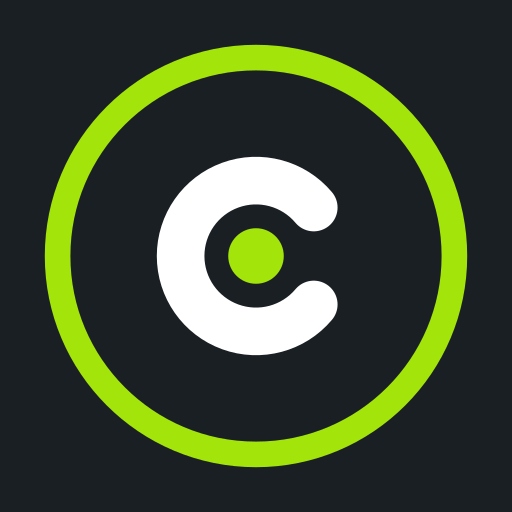
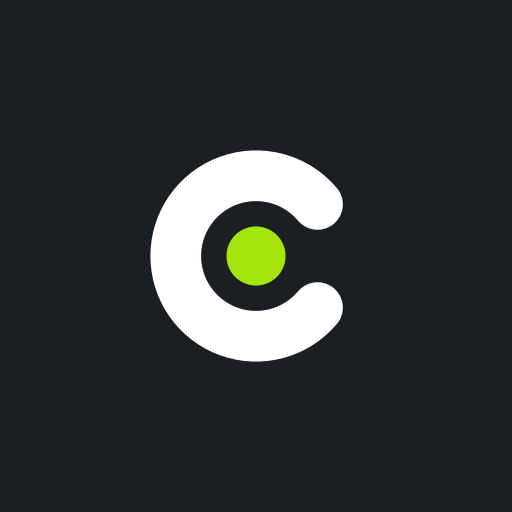
feat(marca): símbolo SWC sin fondo, solo la C con el punto
- Favicon SVG adaptable a tema claro/oscuro; ICO con la C en tinta.
- Íconos PWA/Apple conservan fondo sólido (las plataformas lo exigen).
- Componentes SwcSymbol y SwcWordmark con currentColor; el sidebar sigue el tema de la app.

diff --git a/src/components/brand/swc-logo.tsx b/src/components/brand/swc-logo.tsx
@@ -1,0 +1,43 @@
+import { useId, type SVGProps } from "react";
+
+// Geometry mirrors the brand kit generator (mark-only kit in mecate-co/branding/swc).
+// Letters use currentColor so they follow the app theme; the core dot stays lime.
+const STROKE = 24;
+const LIME = "#A3E40A";
+const C_PATH = "M79.11 25.57 A38 38 0 1 0 79.11 74.43";
+
+type Props = Omit<SVGProps<SVGSVGElement>, "viewBox" | "children"> & { title?: string };
+
+function labelProps(title: string | undefined) {
+  return title ? { role: "img", "aria-label": title } : { "aria-hidden": true };
+}
+
+/** The C with its core dot: favicon, sidebar and other square slots. */
+export function SwcSymbol({ title, ...props }: Props) {
+  return (
+    <svg viewBox="0 0 100 100" fill="none" {...labelProps(title)} {...props}>
+      <path d={C_PATH} stroke="currentColor" strokeWidth={STROKE} strokeLinecap="round" />
+      <circle cx="50" cy="50" r="14" fill={LIME} />
+    </svg>
+  );
+}
+
+/** The full SWC wordmark. */
+export function SwcWordmark({ title, ...props }: Props) {
+  const clip = useId();
+  return (
+    <svg viewBox="0 0 296 100" fill="none" {...labelProps(title)} {...props}>
+      <defs>
+        <clipPath id={clip}>
+          <rect x="-20" y="0" width="336" height="100" />
+        </clipPath>
+      </defs>
+      <g clipPath={`url(#${clip})`} stroke="currentColor" strokeWidth={STROKE} strokeLinejoin="round">
+        <path d="M76 12 H31 A19 19 0 0 0 31 50 H45 A19 19 0 0 1 45 88 H0" />
+        <path d="M97 -20 L111 88 L138 30 L165 88 L179 -20" />
+        <path d="M275.11 25.57 A38 38 0 1 0 275.11 74.43" strokeLinecap="round" />
+      </g>
+      <circle cx="246" cy="50" r="14" fill={LIME} />
+    </svg>
+  );
+}

diff --git a/src/components/shell/app-shell.tsx b/src/components/shell/app-shell.tsx
@@ -1,13 +1,13 @@
 "use client";
 
 import { HomeIcon, PanelLeftIcon } from "lucide-react";
-import Image from "next/image";
 import Link from "next/link";
 import { usePathname } from "next/navigation";
 import type { CSSProperties, ReactNode } from "react";
 import { CompanySwitcher } from "./company-switcher";
 import { BRAND_HREF, HOME_HREF, NAV_GROUPS, isNavActive, navTitle } from "./nav";
 import { BrandIntro } from "@/components/brand/brand-intro";
+import { SwcSymbol } from "@/components/brand/swc-logo";
 import { ThemeTogglerButton } from "@/components/animate-ui/components/buttons/theme-toggler";
 import { Button } from "@/components/ui/button";
 import { AssistantSheet } from "@/features/asistente/assistant-sheet";
@@ -40,7 +40,7 @@ import {
 function Logo() {
   return (
     <Link href={BRAND_HREF} aria-label="Smart Work Core, radar" className="rounded-md focus-visible:outline-2 focus-visible:outline-offset-2 focus-visible:outline-ring">
-      <Image src="/icon.svg" alt="" aria-hidden="true" width={28} height={28} unoptimized priority />
+      <SwcSymbol className="size-7 text-foreground" />
     </Link>
   );
 }

diff --git a/odd/tasks/swc-brand-kit.md b/odd/tasks/swc-brand-kit.md
@@ -29,6 +29,9 @@ The current proposal exists only as AI-generated JPGs and an MP4 the owner finds
 - [x] T4 — Animated intro: standalone animated SVG + React `BrandIntro` component. Route: inline.
 - [x] T5 — Integrate: `public/` assets, `layout.tsx` icons/manifest, `app-shell.tsx` logo. Route: inline (2 mechanical edits).
 
+- [x] T6 — Replace ring/tile symbol with the wordmark's C + core dot, transparent. Adaptive favicon SVG (prefers-color-scheme), ink-C ICO fallback, ink tile only for PWA/Apple icons, `SwcSymbol`/`SwcWordmark` React components (currentColor) used in the sidebar. Route: inline (owner feedback 2026-10-27: tile looked wrong in the sidebar).
+- [ ] T7 — Landing redesign aligned with current docs/ODD, new branding, restrained motion, footer links to https://mecateo.co. Research-backed proposal first (`docs/propuesta-landing.md`). Route: delegated writer (multi-file, research + design).
+
 ## Acceptance criteria
 
 - All logo files are pure vector paths (no `<image>`, no `<text>`), valid SVG, render correctly at 16px and large.
